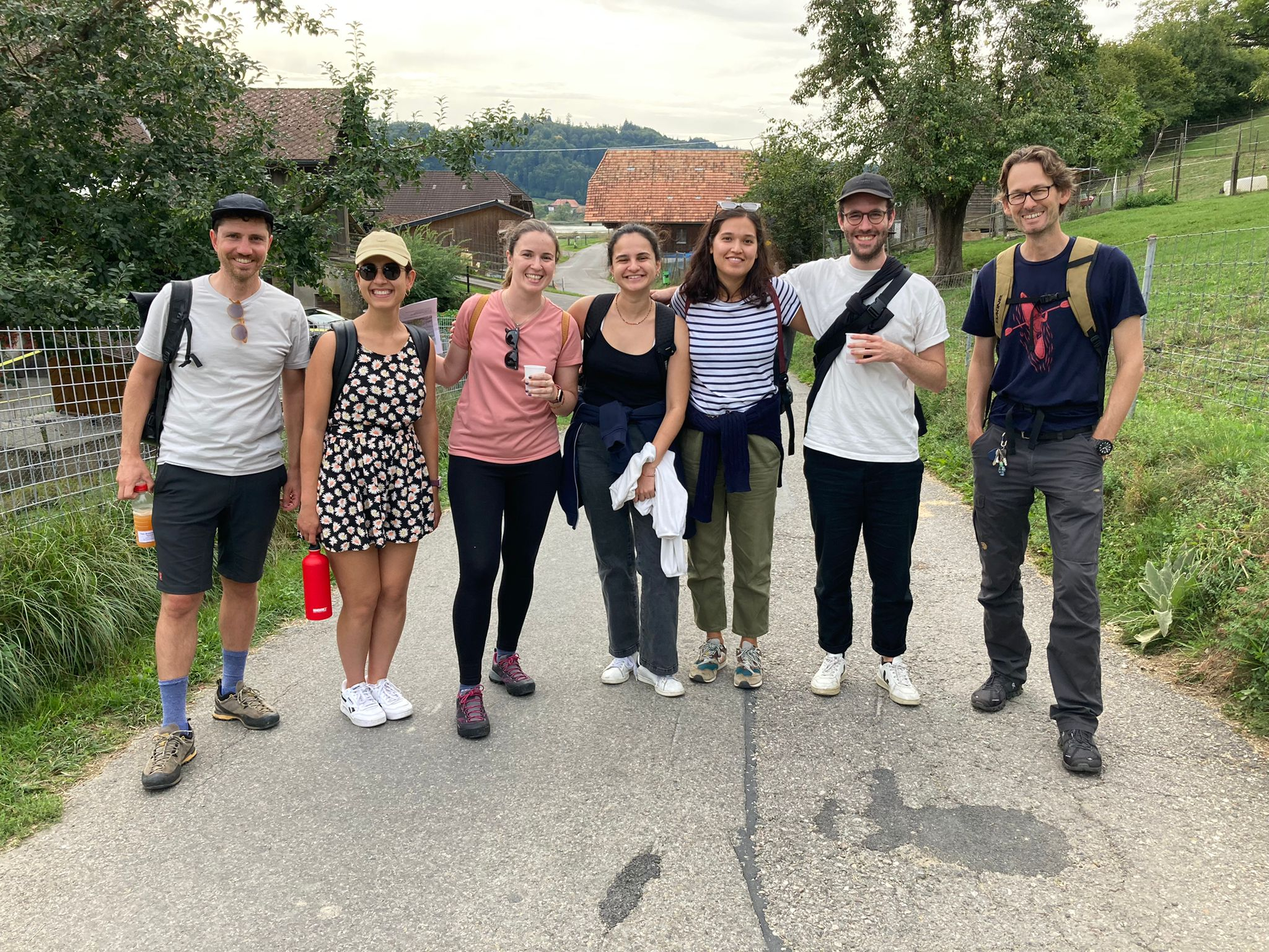
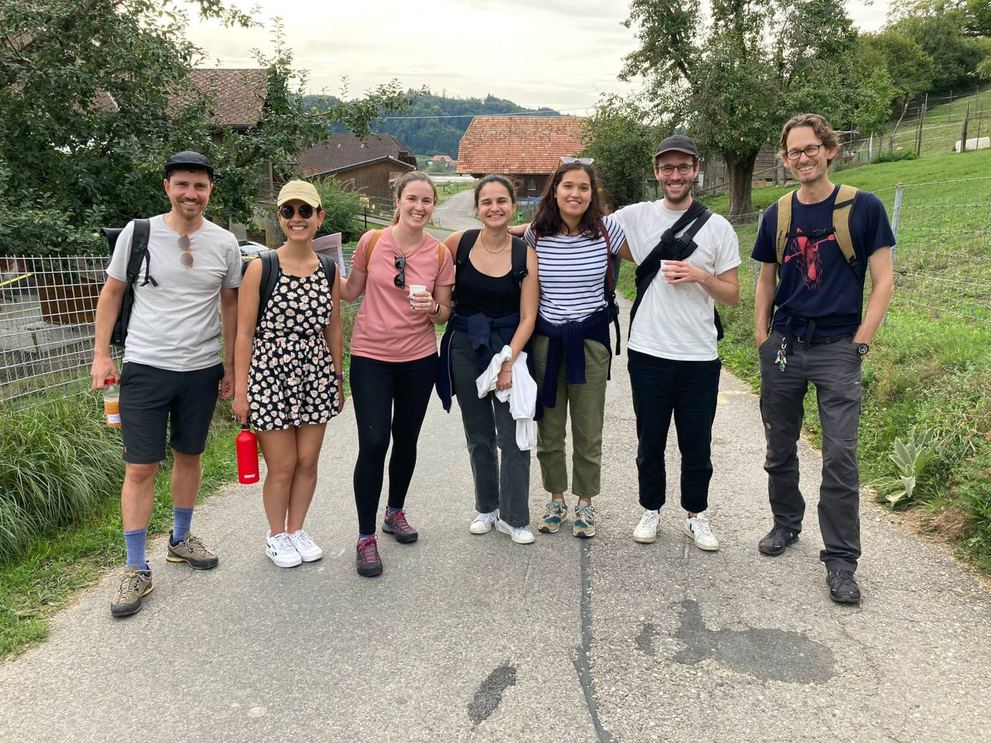
Deploying to gh-pages from @ computationales/geco_website@65b73b059328e9a1f485cc8f623280ec0be547e1 🚀

Changed region(s): [[0.2812, 0.4008, 0.3125, 0.4317]]

diff --git a/index.html b/index.html
@@ -1541,7 +1541,7 @@
         
         
 
-        <img src="/media/welcome_hu5848efec2f69a934d3855cf3f5724387_807472_400x0_resize_q75_lanczos.jpg" srcset="/media/welcome_hu5848efec2f69a934d3855cf3f5724387_807472_1200x0_resize_q75_lanczos.jpg 1200w,/media/welcome_hu5848efec2f69a934d3855cf3f5724387_807472_800x0_resize_q75_lanczos.jpg 800w,/media/welcome_hu5848efec2f69a934d3855cf3f5724387_807472_400x0_resize_q75_lanczos.jpg 400w" width="2048" height="1536" alt="[Meet the team](../people/)
+        <img src="/media/welcome_huc2e966a099a668a437a9670655ea1a29_412716_400x0_resize_q75_lanczos.jpg" srcset="/media/welcome_huc2e966a099a668a437a9670655ea1a29_412716_1200x0_resize_q75_lanczos.jpg 1200w,/media/welcome_huc2e966a099a668a437a9670655ea1a29_412716_800x0_resize_q75_lanczos.jpg 800w,/media/welcome_huc2e966a099a668a437a9670655ea1a29_412716_400x0_resize_q75_lanczos.jpg 400w" width="1600" height="1200" alt="[Meet the team](../people/)
 ">
       
     
@@ -4286,7 +4286,7 @@ Here are the ten calls to action of the Better Science Initiative and this is ho
 
 
 <section id="image" class="home-section wg-markdown dark " style="padding: 100px 0 50px 0;" >
- <div class="home-section-bg  bg-image" style="background-image: url(&#39;https://geco-group.org/media/needle_trees_panorama_huc9d4726936ae1c5086b979bcf81fa734_22355554_1920x1920_fit_q75_h2_lanczos.webp&#39;);background-size: cover;background-position: center;">
+ <div class="home-section-bg  bg-image" style="background-image: url(&#39;https://geco-group.org/media/needle_trees_panorama_hu393284713b34960e271ec7a859b1fee3_363231_1920x1920_fit_q75_h2_lanczos.webp&#39;);background-size: cover;background-position: center;">
    
  </div>
   <div class="container">
